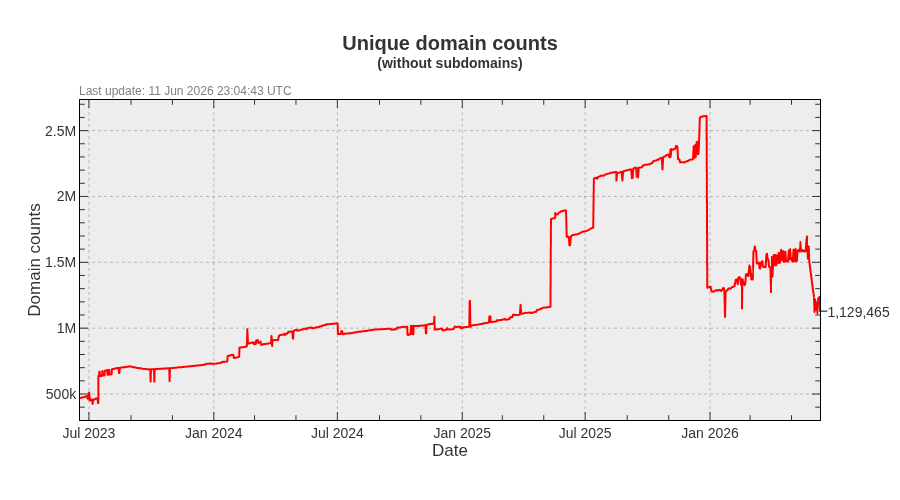
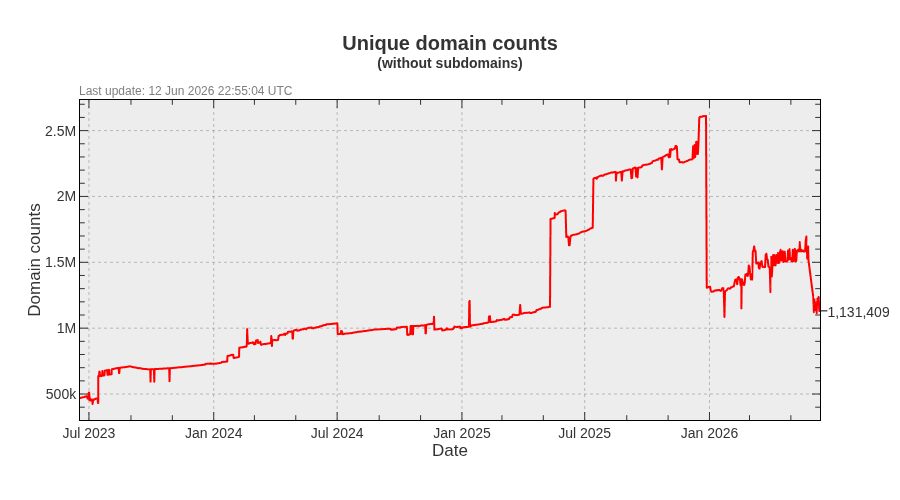
Update pages

diff --git a/README.md b/README.md
@@ -3,22 +3,22 @@ A blocklist file for blocking ads, trackers and malware domains.
 
[1 lines of base64/hex data omitted]
 
-- Unique domains: 1,779,140
-- Without subdomains: 1,129,465
-- Last update: 11 Jun 2026 23:04:43 UTC
-- Version: 2026.06.11.01
+- Unique domains: 1,782,216
+- Without subdomains: 1,131,409
+- Last update: 12 Jun 2026 22:55:04 UTC
+- Version: 2026.06.12.01
 
 
 ## Downloads:
 
 | Format             | Domain count      | Download Link |
 |------------------ | -----------------|-------------|
-| *Adblock Plus*     | 1,129,465 | [bad-hosts-abp](https://dl.cenk.app/bad-hosts/bad-hosts-abp) |
-| *Wildcard domains* | 1,129,465 | [bad-hosts-wildcard](https://dl.cenk.app/bad-hosts/bad-hosts-wildcard) |
-| *dnsmasq*          | 1,129,465 | [bad-hosts-dnsmasq](https://dl.cenk.app/bad-hosts/bad-hosts-dnsmasq) |
-| *hosts*            | 1,779,140 | [hosts](https://dl.cenk.app/bad-hosts/hosts) |
-| *hosts (ipv6)*     | 1,779,140 | [hosts-ipv6](https://dl.cenk.app/bad-hosts/hosts-ipv6) |
-| *Plain domains*    | 1,779,140 | [bad-hosts-domains](https://dl.cenk.app/bad-hosts/bad-hosts-domains) |
+| *Adblock Plus*     | 1,131,409 | [bad-hosts-abp](https://dl.cenk.app/bad-hosts/bad-hosts-abp) |
+| *Wildcard domains* | 1,131,409 | [bad-hosts-wildcard](https://dl.cenk.app/bad-hosts/bad-hosts-wildcard) |
+| *dnsmasq*          | 1,131,409 | [bad-hosts-dnsmasq](https://dl.cenk.app/bad-hosts/bad-hosts-dnsmasq) |
+| *hosts*            | 1,782,216 | [hosts](https://dl.cenk.app/bad-hosts/hosts) |
+| *hosts (ipv6)*     | 1,782,216 | [hosts-ipv6](https://dl.cenk.app/bad-hosts/hosts-ipv6) |
+| *Plain domains*    | 1,782,216 | [bad-hosts-domains](https://dl.cenk.app/bad-hosts/bad-hosts-domains) |
 
 ## Domain count history
 ### With subdomains